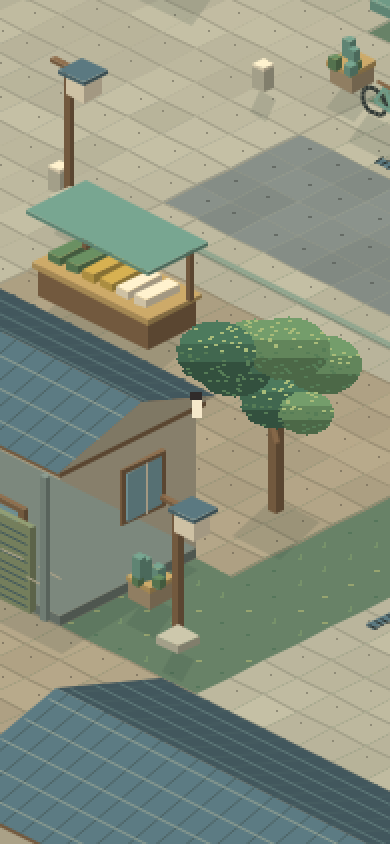
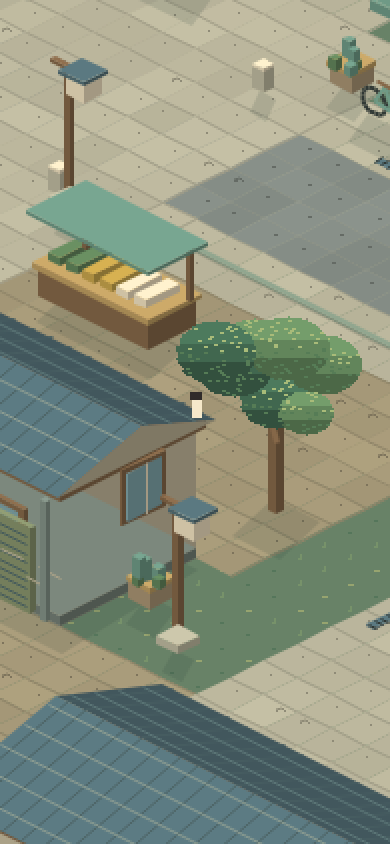
art: vary town roofs and author closed bookshop display

Changed region(s): [[0.0, 0.8009, 1.0, 1.0], [0.0, 0.3389, 0.5538, 0.6161]]

diff --git a/src/world/art/town/index.ts b/src/world/art/town/index.ts
@@ -46,7 +46,7 @@ export function drawProp(ctx: CanvasRenderingContext2D, prop: Prop, view: WorldR
 
   if (isBuilding) {
     const residence = prop.kind === 'building-residence', shop = prop.kind === 'building-shop';
-    const height = residence ? 7.2 : prop.kind === 'building-row' ? 6.4 : prop.kind === 'building-utility' ? 3.1 : 4.5;
+    const height = residence ? 7.2 : prop.kind === 'building-row' ? style === 'ochre' ? 6.8 : style === 'jade' ? 5.8 : 6.2 : prop.kind === 'building-utility' ? 3.1 : style === 'timber-shutter' ? 5.6 : style === 'olive-shutter' ? 3.8 : 4.5;
     const wall = style?.includes('jade') ? [170, 186, 160] : style?.includes('ochre') ? [204, 179, 135] : style?.includes('warm') ? [212, 193, 162] : residence ? [196, 190, 167] : prop.kind === 'building-tea' ? [180, 157, 122] : prop.kind === 'building-workshop' ? [163, 170, 158] : C.plaster;
     box(x, y, 0, w, h, height, wall);
     box(x, y, 0, w, h, .32, [115, 126, 116]);
@@ -115,6 +115,34 @@ export function drawProp(ctx: CanvasRenderingContext2D, prop: Prop, view: WorldR
       box(x + .6, y + h + .1, .2, w - 1.2, .15, 2.5, style?.includes('jade') ? C.jade : style?.includes('olive') ? [135, 146, 107] : style?.includes('cream') ? [190, 184, 155] : style?.includes('timber') ? C.wood : C.slate);
       for (let z = .35; z < 2.6; z += .26) line([x + .7, y + h + .26, z], [x + w - .7, y + h + .26, z], [72, 93, 91]);
       box(x + w / 2 - .12, y + h + .3, .3, .24, .08, .2, C.brass);
+    }
+    if (style === 'cream-shutter') {
+      box(x + .7, y + h + .3, .65, w * .57, .24, 2.6, C.wood);
+      box(x + .9, y + h + .56, .85, w * .57 - .4, .04, 2.2, [90, 122, 124]);
+      for (const z of [.95, 1.85]) {
+        box(x + .9, y + h + .61, z, w * .57 - .4, .05, .12, C.brass);
+        for (let a = 0; a < w * .57 - .7; a += .28) {
+          const lean = Math.floor(a * 10) % 3;
+          box(x + 1.05 + a, y + h + .64, z + .13, .18, .03, .5 + lean * .15, [C.cream, C.jade, C.brass, C.slate][Math.floor(a * 10) % 4]);
+        }
+      }
+      box(x + .75, y + h + .67, 2.1, w * .57 - .1, .05, .08, C.cream);
+      box(x + w * .34, y + h + .69, .8, .09, .03, 2.4, C.cream);
+    }
+    if (style === 'timber-shutter') {
+      box(x + 1.1, y + h + .3, 1, w - 2.2, .2, 1.5, C.wood);
+      for (let a = 0; a < w - 2.8; a += .7) {
+        box(x + 1.4 + a, y + h + .52, 1.2, .45, .15, 1, a % 1.4 ? [175, 184, 158] : [192, 170, 121]);
+        line([x + 1.6 + a, y + h + .7, 1.2], [x + 1.6 + a, y + h + .7, 2.2], C.cream);
+      }
+    }
+    if (residence) {
+      box(x + .35, y + h + .1, .4, .45, .22, .65, C.wood);
+      box(x + .39, y + h + .34, .45, .37, .04, .4, C.slate);
+      for (const a of [x + 2.4, x + w - 1]) {
+        box(a, y + h + .18, .1, .6, .4, .2, C.brick);
+        box(a + .1, y + h + .2, .3, .35, .3, .4, C.leaf);
+      }
     }
     for (let z = .5; z < Math.min(height, 3); z += .48) {
       const offset = Math.round(z * 2) % 2 * .35;
@@ -292,7 +320,7 @@ export const drawMap: DrawMap = (ctx, map, view) => {
         const x0 = Math.max(r.x, x), y0 = Math.max(r.y, y), x1 = Math.min(r.x + r.width, x + 1), y1 = Math.min(r.y + r.height, y + 1);
         const points = [{ x: x0, y: y0 }, { x: x1, y: y0 }, { x: x1, y: y1 }, { x: x0, y: y1 }].map(p => view.project(p));
         if (Math.max(...points.map(p => p.x)) < 0 || Math.min(...points.map(p => p.x)) > view.width || Math.max(...points.map(p => p.y)) < 0 || Math.min(...points.map(p => p.y)) > view.height) continue;
-        const base = terrain.material === 'water' ? [107, 151, 155] : terrain.material === 'stone' ? [147, 159, 144] : terrain.material === 'road' ? [134, 142, 135] : terrain.material === 'brick' ? [178, 164, 134] : C.paving;
+        const base = terrain.material === 'water' ? [107, 151, 155] : terrain.material === 'stone' ? [147, 159, 144] : terrain.material === 'road' ? [134, 142, 135] : terrain.material === 'brick' ? [168, 155, 122] : C.paving;
         ctx.fillStyle = color(base, .96 + hash(x, y) * .08);
         ctx.beginPath(); points.forEach((p, i) => i ? ctx.lineTo(Math.round(p.x), Math.round(p.y)) : ctx.moveTo(Math.round(p.x), Math.round(p.y))); ctx.closePath(); ctx.fill();
         if (terrain.material !== 'road' && terrain.material !== 'water') {
@@ -301,6 +329,10 @@ export const drawMap: DrawMap = (ctx, map, view) => {
         }
         const p = view.project({ x: x0 + .3 + hash(x, y) * .4, y: y0 + .3 });
         ctx.fillStyle = color(base, .75); ctx.fillRect(Math.round(p.x), Math.round(p.y), terrain.material === 'road' ? 2 : 1, 1);
+        if (hash(x + 71, y) > .92 && terrain.material !== 'water') {
+          ctx.strokeStyle = color(base, .75); ctx.beginPath();
+          ctx.moveTo(Math.round(p.x), Math.round(p.y)); ctx.lineTo(Math.round(p.x) + 3, Math.round(p.y) - 1); ctx.lineTo(Math.round(p.x) + 5, Math.round(p.y) + 1); ctx.stroke();
+        }
       }
     }
   }

diff --git a/src/world/maps/town/author-map.py b/src/world/maps/town/author-map.py
@@ -19,7 +19,7 @@ def landmark(name,x,y,kind): m['landmarks'].append(dict(id='town.'+name,position
 # Width changes and offset intersections give different streets different rhythms.
 for args in [('breakfast-paving',0,29,80,8,'paving'),('breakfast-road',0,31,80,4,'road'),('west-lane',19,8,7,24,'paving'),('north-lane',21,8,43,6,'brick'),('east-lane',59,11,7,45,'paving'),('south-lane',23,49,42,7,'brick'),('south-west',23,35,6,18,'paving'),('lantern-passage',40,12,5,18,'brick'),('courtyard-approach',42,0,6,14,'brick'),('residence-landing',10,21,12,4,'paving'),('market-pocket',28,37,12,8,'brick'),('market-link',37,36,9,4,'brick'),('service-lane',43,36,6,17,'paving'),('river-path',64,44,16,7,'paving'),('tree-junction',17,27,11,13,'paving'),('tea-terrace',49,14,9,5,'brick'),('restaurant-landing',32.5,28,3,2,'paving')]: surface(*args)
 
-buildings=[('residence','building-residence',4,10,13,11,'old-jade',8),('restaurant','building-restaurant',28,18,11,10,'breakfast',5.5),('tea-house','building-tea',49,19,9,10,'timber',6),('workshop','building-workshop',67,18,11,11,'sawtooth',5),('corner-store','building-shop',67,5,10,10,'blue-shutter',6),('north-row','building-row',27,2,12,6,'ochre',7),('linen-house','building-row',50,2,8,6,'jade',7.5),('west-store','building-shutter',5,25.5,12,3,'slate',3.7),('south-residence','building-residence',7,38,13,12,'warm-plaster',8.5),('market-house','building-shop',29,45,10,4,'olive-shutter',5),('south-bakery','building-shop',30,56,10,6,'timber-shutter',6),('south-studio','building-row',49,56,9,6,'plaster',7),('pump-house','building-utility',52,38,6,9,'slate',3.4),('bookshop','building-shop',68,52,10,8,'cream-shutter',6.3),('river-store','building-shutter',69,37,9,6,'jade',4)]
+buildings=[('residence','building-residence',4,10,13,11,'old-jade',8),('restaurant','building-restaurant',28,18,11,10,'breakfast',5.5),('tea-house','building-tea',49,19,9,10,'timber',6),('workshop','building-workshop',67,18,11,11,'sawtooth',5),('corner-store','building-shop',67,5,10,10,'blue-shutter',6),('north-row','building-row',27,2,12,6,'ochre',7),('linen-house','building-row',50,2,8,6,'jade',7.5),('west-store','building-shutter',5,25.5,12,3,'cream-shutter',5.2),('south-residence','building-residence',7,38,13,12,'warm-plaster',8.5),('market-house','building-shop',29,45,10,4,'olive-shutter',5),('south-bakery','building-shop',30,56,10,6,'timber-shutter',6),('south-studio','building-row',49,56,9,6,'plaster',7),('pump-house','building-utility',52,38,6,9,'slate',3.4),('bookshop','building-shop',68,52,10,8,'olive-shutter',6.3),('river-store','building-shutter',69,37,9,6,'jade',4)]
 for name,kind,x,y,w,h,var,z in buildings:
  prop(name,kind,x,y,w,h,var,True,z)
 
@@ -65,8 +65,8 @@ m['terrain'] += [dict(id='town.canal-water',rect=rect(65,51,2,13),material='wate
 prop('canal-rail','fence',64.3,51,.15,12.5,'iron',False,1.2)
 prop('tea-stone-table','stone-table',50,16.5,1.7,1.2,'stone',True,1.1)
 
-for name,x,y,kind in [('breakfast-steam',34,29.5,'restaurant-frontage'),('camphor-junction',22,29,'tree-junction'),('laundry-lane',19.7,22.5,'residential-lane'),('lantern-cut',42.5,21,'narrow-lane'),('moon-gate',45,9.5,'moon-gate'),('market-pocket',33,40.5,'market'),('sawtooth-roof',72,30.5,'workshop-frontage'),('river-overlook',67,49,'river-approach'),('south-fig',24,53,'garden-lane'),('closed-yard',72,45.2,'closed-yard')]:landmark(name,x,y,kind)
-for name,x,y,interaction in [('junction-rest',22,29.2,'rest'),('market-baskets',34,41,'observe-market'),('river-view',67,49,'look-river'),('laundry-lane',22.5,19,'observe-laundry'),('tea-terrace',54,15,'rest')]:
+for name,x,y,kind in [('book-window',10.5,30,'closed-bookshop-display'),('breakfast-steam',34,29.5,'restaurant-frontage'),('camphor-junction',22,29,'tree-junction'),('laundry-lane',19.7,22.5,'residential-lane'),('lantern-cut',42.5,21,'narrow-lane'),('moon-gate',45,9.5,'moon-gate'),('market-pocket',33,40.5,'market'),('sawtooth-roof',72,30.5,'workshop-frontage'),('river-overlook',67,49,'river-approach'),('south-fig',24,53,'garden-lane'),('closed-yard',72,45.2,'closed-yard')]:landmark(name,x,y,kind)
+for name,x,y,interaction in [('book-window',10.5,30,'observe-window'),('junction-rest',22,29.2,'rest'),('market-baskets',34,41,'observe-market'),('river-view',67,49,'look-river'),('laundry-lane',22.5,19,'observe-laundry'),('tea-terrace',54,15,'rest')]:
  m['anchors'].append(dict(id='town.'+name,position=point(x,y),radius=1.4,featureId='exploration',interactionId='town.'+interaction))
 for name,actor,route in [('morning-walk','aunt',[(34,30),(42.5,30),(42.5,14),(45,10)]),('market-regular','glasses',[(31,41),(36,41),(38,40),(31,40)]),('workshop-delivery','backpack',[(70,33),(62,33),(62,47),(70,47)])]:
  m['npcHooks'].append(dict(id='town.'+name,position=point(*route[0]),route=[point(*p) for p in route],characterId=actor))
